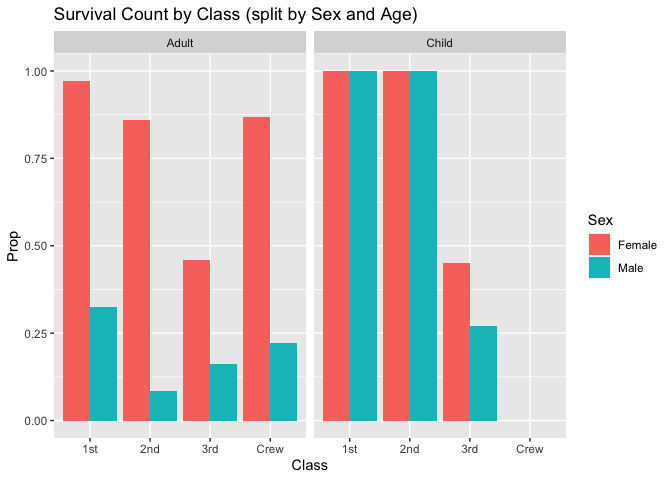
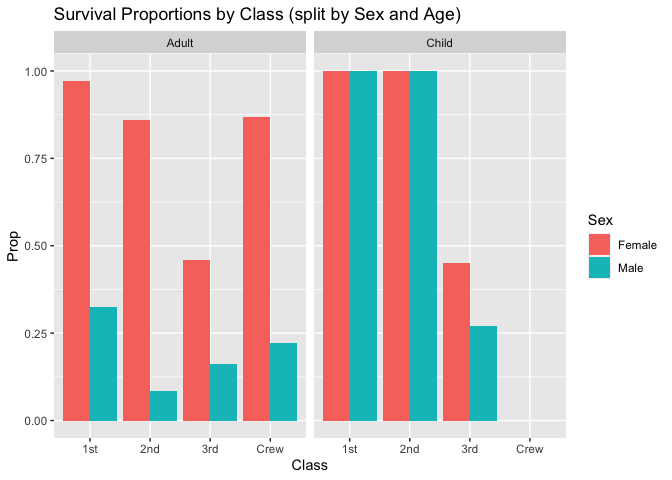
Add first-pass at c01 q5 + minor copy tweaks

Changed region(s): [[0.1875, 0.0, 0.6875, 0.0625]]

diff --git a/challenges/c01-titanic-assignment.md b/challenges/c01-titanic-assignment.md
@@ -64,14 +64,14 @@ for more information.
 library(tidyverse)
 ```
 
-    ## ── Attaching packages ───────────────────────────────────────────────────── tidyverse 1.3.0 ──
+    ## ── Attaching packages ───────────────────────────────────────────────────────────────────────────────── tidyverse 1.3.0 ──
 
     ## ✓ ggplot2 3.3.2     ✓ purrr   0.3.4
     ## ✓ tibble  3.0.1     ✓ dplyr   1.0.0
     ## ✓ tidyr   1.1.0     ✓ stringr 1.4.0
     ## ✓ readr   1.3.1     ✓ forcats 0.5.0
 
-    ## ── Conflicts ──────────────────────────────────────────────────────── tidyverse_conflicts() ──
+    ## ── Conflicts ──────────────────────────────────────────────────────────────────────────────────── tidyverse_conflicts() ──
     ## x dplyr::filter() masks stats::filter()
     ## x dplyr::lag()    masks stats::lag()
 
@@ -126,15 +126,30 @@ df_titanic %>% summarize(total = sum(n))
 
 **Observations**:
 
-  - According to the Wikipedia article on the RMS Titanic, the total
-    count of passengers was approximately 1,316 (and the total count of
-    passengers and crew was 2,224)
+  - According to the [Wikipedia article on the Sinking of the RMS
+    Titanic](https://en.wikipedia.org/wiki/Sinking_of_the_RMS_Titanic#Casualties_and_survivors)
+    (under the “Casualties and Survivors”), the total count of
+    passengers was approximately 1,316, the total count of the crew was
+    908, and the total count of passengers and crew was 2,224
   - Based on the dataset, the total count of passengers was 2,201
-  - There is a non-trivial difference between the two (885) though the
-    difference between the total count of passengers and crew from
-    Wikipedia is trivial (23) (\~1%), so it seems like the dataset
-    counts the crew in the passenger count (which I confirmed by looking
-    through the dataset and noticing `Crew` listed as a class)
+  - There is trivial difference between the total count of passengers
+    and crew from Wikipedia and that of the dataset (23) (\~1%)
+
+Why? - One guess is that the difference is due to some data scrubbing -
+from [some
+Googling](https://www.codementor.io/@innat_2k14/titanic-kaggle-machine-learning-from-disaster-part-1-10gbvqzguc),
+it seems like this dataset is from Kaggle, and data is often
+pre-processed to make it usable - Another guess is that the journey was
+not direct, so there might’ve been some miscounts at each stop along the
+way
+
+Also\! - Interestingly enough, the “Passengers” section of the [original
+Wikipedia article on the RMS
+Titanic](https://en.wikipedia.org/wiki/RMS_Titanic#Passengers) mentions
+“Titanic’s passengers numbered approximately 1,317 people” despite
+supposedly referencing the other one (Sinking of the RMS Titanic) -
+Seems like someone might’ve misquoted and now makes me a bit weary of
+trusting the data from these Wikipedia articles
 
 **q3** Create a plot showing the count of passengers who *did* survive,
 along with aesthetics for `Class` and `Sex`. Document your observations
@@ -172,7 +187,7 @@ df_titanic_survived
 df_titanic_survived %>%
   ggplot() +
   geom_col(mapping = aes(x = Class, y = n, fill = Sex), position = "dodge") +
-  ggtitle("Survival Count by Class split by Sex")
+  labs(title = "Survival Count by Class split by Sex")
 ```
 
 ![](c01-titanic-assignment_files/figure-gfm/q3-task-survived-1.png)<!-- -->
@@ -180,14 +195,16 @@ df_titanic_survived %>%
 ``` r
 df_titanic_survived %>%
   ggplot() +
-  geom_col(mapping = aes(x = Class, y = n, fill = Sex), position = "dodge") + facet_wrap( ~ Age) +
-  ggtitle("Survival Count by Class (split by Sex and Age)")
+  geom_col(mapping = aes(x = Class, y = n, fill = Sex), position = "dodge") + facet_wrap(~ Age) +
+  labs(title = "Survival Count by Class (split by Sex and Age)")
 ```
 
 ![](c01-titanic-assignment_files/figure-gfm/q3-task-survived-2.png)<!-- -->
+
 **Observations**:
 
-  - There were no children in the crew (which makes sense)
+  - There were no children in the crew (which makes sense because that’d
+    be illegal I think otherwise?)
   - In `1st`, the majority of the survivors were `Female`
   - In `Crew`, the majority of survivors were `Male` though it’s likely
     that they also made up the majority of the crew (can generate more
@@ -212,7 +229,7 @@ df_titanic_deceased <- filter(df_titanic, Survived == "No")
 df_titanic_deceased %>%
   ggplot() +
   geom_col(mapping = aes(x = Class, y = n, fill = Sex), position = "dodge") +
-  ggtitle("Deceased Count by Class split by Sex")
+  labs(title = "Deceased Count by Class split by Sex")
 ```
 
 ![](c01-titanic-assignment_files/figure-gfm/q3-task-deceased-1.png)<!-- -->
@@ -220,33 +237,42 @@ df_titanic_deceased %>%
 ``` r
 df_titanic_deceased %>%
   ggplot() +
-  geom_col(mapping = aes(x = Class, y = n, fill = Sex), position = "dodge") + facet_wrap( ~ Age) +
-  ggtitle("Deceased Count by Class (split by Sex and Age)")
+  geom_col(mapping = aes(x = Class, y = n, fill = Sex), position = "dodge") + facet_wrap(~ Age) +
+  labs(title = "Deceased Count by Class (split by Sex and Age)")
 ```
 
 ![](c01-titanic-assignment_files/figure-gfm/q3-task-deceased-2.png)<!-- -->
-**Observations**: - The children who did not survive were all in third
-class - People in `1st` had the lowest deceased count among the four
-classes - `Crew` had the largest decreased count (specifically for
-`Male` - there were few deceased `Female` for that class) - Across all
-classes, `Male` made up the majority of the deceased - The deceased
-counts increase from class to class - Looking at [a cross-section of the
-Titanic](https://en.wikipedia.org/wiki/First-class_facilities_of_the_RMS_Titanic#/media/File:Titanic_cutaway_diagram.png),
-this makes sense as `1st` was closest to the deck and lifeboats -
-Reading the Wikipedia article (see `Crew` section), it seems like many
-of the crew were working on the engine or victualling, which were on
-lower decks
+
+**Observations**:
+
+  - The children who did not survive were all in `3rd` class
+  - People in `1st` had the lowest deceased count among the four classes
+  - `Crew` had the largest decreased count (specifically for `Male` -
+    there were few deceased `Female` for that class)
+  - Across all classes, `Male` made up the majority of the deceased
+  - The deceased counts increase from class to class
+      - Looking at [a cross-section of the
+        Titanic](https://en.wikipedia.org/wiki/First-class_facilities_of_the_RMS_Titanic#/media/File:Titanic_cutaway_diagram.png),
+        this makes sense as `1st` was closest to the top deck and
+        lifeboats
+      - Reading the Wikipedia article (see `Crew` section), it seems
+        like many of the crew were working on the engine or victualling,
+        which were on lower decks
+
+<!-- end list -->
 
 ``` r
 df_titanic %>%
   ggplot() +
   geom_col(mapping = aes(x = Class, y = n, fill = Sex), position = "dodge") +
   facet_wrap(~ Age) +
-  ggtitle("Passenger Count by Class split by Sex")
+  labs(title = "Passenger Count by Class split by Sex")
 ```
 
 ![](c01-titanic-assignment_files/figure-gfm/q3-task-extra-1.png)<!-- -->
-**Observations**: - `Crew` was the largest `Class` on the Titanic
+**Observations**:
+
+  - `Crew` was the largest `Class` on the Titanic
 
 # Deeper Look
 
@@ -267,10 +293,7 @@ group.
 df_prop <-
   df_titanic %>%
   group_by(Class, Sex, Age) %>%
-  mutate(
-    Total = sum(n),
-    Prop = n / Total
-  ) %>%
+  mutate(Total = sum(n), Prop = n / Total) %>%
   ungroup()
 df_prop
 ```
@@ -323,20 +346,25 @@ df_prop_survived
 ``` r
 df_prop_survived %>%
   ggplot() +
-  geom_col(mapping = aes(x = Class, y = Prop, fill = Sex), position = "dodge") + facet_wrap( ~ Age) +
-  ggtitle("Survival Count by Class (split by Sex and Age)")
+  geom_col(mapping = aes(x = Class, y = Prop, fill = Sex), position = "dodge") +
+  facet_grid(~ Age) +
+  labs(title = "Survival Proportions by Class (split by Sex and Age)")
 ```
 
     ## Warning: Removed 2 rows containing missing values (geom_col).
 
 ![](c01-titanic-assignment_files/figure-gfm/q4-task-q3-visual-replicate-1.png)<!-- -->
 
-**Observations**: - All children from `1st` and `2nd` survived, but more
-than half the children in `3rd` did not - Of the surviving adults, aside
-from `3rd`, more than 50% of the women survived - Within `Crew`, over
-75% of `Female` survived - Wonder which part of the crew they were in -
-seems plausible that they were part of the Deck department - `Male` in
-`2nd` had the lowest survival rate
+**Observations**:
+
+  - All children from `1st` and `2nd` survived, but more than half the
+    children in `3rd` did not
+  - Of the surviving adults, aside from `3rd`, more than 50% of the
+    women survived
+  - Within `Crew`, over 75% of `Female` survived
+      - Wonder which part of the crew they were in - seems plausible
+        that they were part of the Deck department
+      - `Male` in `2nd` had the lowest survival rate
 
 **q5** Create a plot showing the group-proportion of passengers who
 *did* survive, along with aesthetics for `Class`, `Sex`, *and* `Age`.
@@ -345,9 +373,57 @@ Document your observations below.
 *Hint*: Don’t forget that you can use `facet_grid` to help consider
 additional variables\!
 
+``` r
+df_prop_survived <- filter(df_prop, Survived == "Yes")
+
+df_prop_survived
+```
+
+    ## # A tibble: 16 x 7
+    ##    Class Sex    Age   Survived     n Total     Prop
+    ##    <chr> <chr>  <chr> <chr>    <dbl> <dbl>    <dbl>
+    ##  1 1st   Male   Child Yes          5     5   1     
+    ##  2 2nd   Male   Child Yes         11    11   1     
+    ##  3 3rd   Male   Child Yes         13    48   0.271 
+    ##  4 Crew  Male   Child Yes          0     0 NaN     
+    ##  5 1st   Female Child Yes          1     1   1     
+    ##  6 2nd   Female Child Yes         13    13   1     
+    ##  7 3rd   Female Child Yes         14    31   0.452 
+    ##  8 Crew  Female Child Yes          0     0 NaN     
+    ##  9 1st   Male   Adult Yes         57   175   0.326 
+    ## 10 2nd   Male   Adult Yes         14   168   0.0833
+    ## 11 3rd   Male   Adult Yes         75   462   0.162 
+    ## 12 Crew  Male   Adult Yes        192   862   0.223 
+    ## 13 1st   Female Adult Yes        140   144   0.972 
+    ## 14 2nd   Female Adult Yes         80    93   0.860 
+    ## 15 3rd   Female Adult Yes         76   165   0.461 
+    ## 16 Crew  Female Adult Yes         20    23   0.870
+
+``` r
+df_prop_survived %>%
+  ggplot() +
+  geom_col(mapping = aes(x = Class, y = Prop, fill = Sex), position = "dodge") +
+  facet_grid(Sex ~ Age) +
+  labs(title = "Survival Proportions by Class (split by Age and Sex)")
+```
+
+    ## Warning: Removed 2 rows containing missing values (geom_col).
+
+![](c01-titanic-assignment_files/figure-gfm/q5-task-1.png)<!-- -->
+
 **Observations**:
 
-  - Write your observations here.
+  - As noticed in earlier questions of this challenge, the survival of
+    women was disporportionally greater than the survival of men for
+    most adults (aside from thos in `3rd` class)
+  - Children in `1st` and `2nd` class had high survival rates
+  - When looking at proportions, the survival of `Crew` members is
+    comparable to `2nd` class but is not the highest survival proportion
+      - This helps provide some clarity as from the count plots it
+        seemed as though a lot more crew members survived than
+        passengers (which seemed odd at first), but it makes sense that
+        the proportion isn’t as high since `Crew` represented the
+        largest `Class` on the Titanic
 
 # Notes
 
